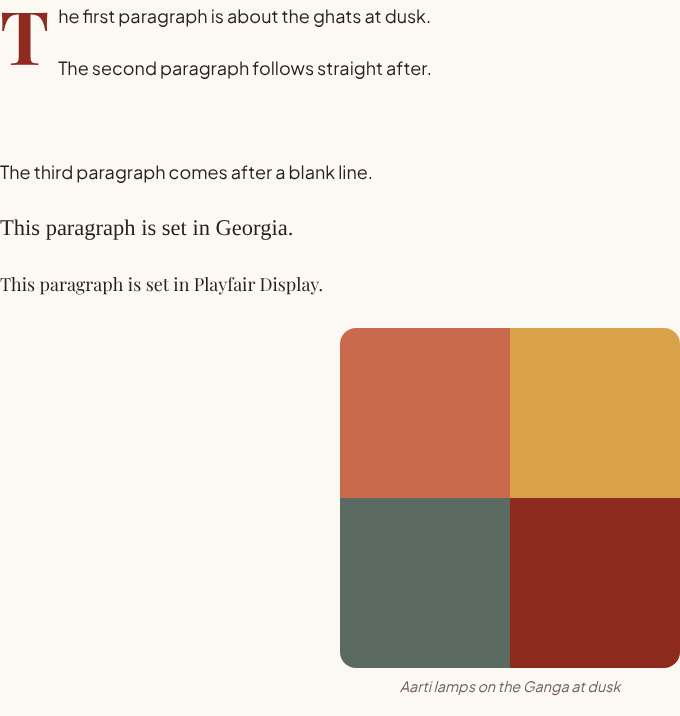
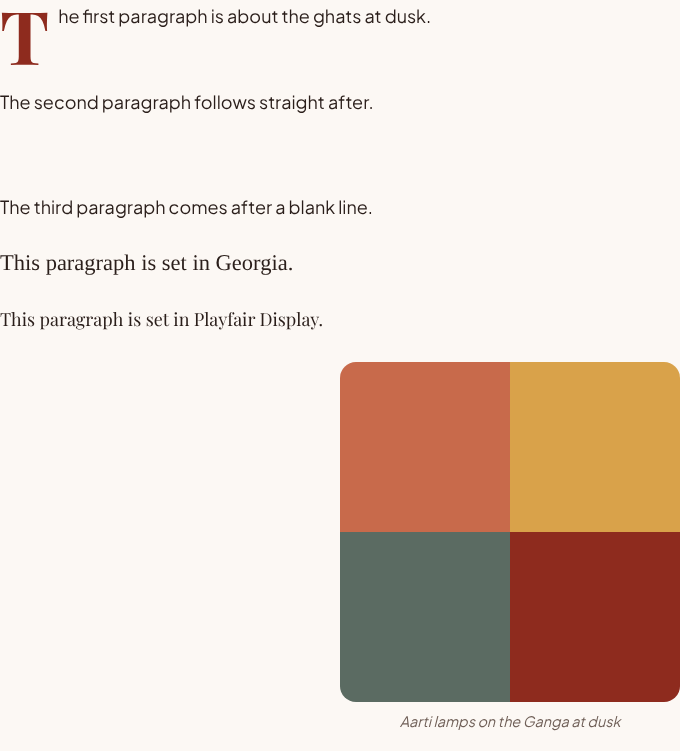
v10.1: make blog view counts visible and say why when they can't be shown
- "👁 N views" now also sits next to the reading time at the top of each story (one shared
  request with the counter at the end).
- The views API reports why a count is unavailable (tables missing = migration 0010 not run,
  no Supabase server key, post not live). Readers still see nothing broken; signed-in team
  members see the reason on the post, and the admin Blogs list shows a banner with the fix.
- Test: the not-migrated case (48/48 e2e pass).

Claude-Session: https://claude.ai/code/session_01UJXqhmX54gzJnwbGeQzue4

diff --git a/src/app/api/views/[slug]/route.ts b/src/app/api/views/[slug]/route.ts
@@ -9,46 +9,63 @@ export const dynamic = "force-dynamic";
 const SLUG = /^[a-z0-9-]{1,120}$/;
 const noStore = { "Cache-Control": "private, no-store", "X-Robots-Tag": "noindex" };
 
+type Reason = "not_set_up" | "no_server_key" | "not_found" | "error";
+type Views = { views: number; reason?: undefined } | { views: null; reason: Reason };
+
+/** PostgREST / Postgres codes for "that table or function doesn't exist" (migration 0010 not run). */
+const MISSING = new Set(["42P01", "42883", "PGRST202", "PGRST205", "PGRST200"]);
+const missing = (e: { code?: string; message?: string } | null) => Boolean(e && (MISSING.has(e.code ?? "") || /does not exist|could not find/i.test(e.message ?? "")));
+
 /** Current total for a live post, without counting (used for bots, the team and GET). */
-async function currentViews(slug: string): Promise<number | null> {
+async function currentViews(slug: string): Promise<Views> {
   const db = createPublicClient();
-  if (!db) return null;
-  const { data } = await db.from("posts").select("id, post_view_counts(views)").eq("slug", slug).maybeSingle();
-  if (!data) return null;
-  const rel = (data as { post_view_counts?: { views?: number } | { views?: number }[] | null }).post_view_counts;
-  const row = Array.isArray(rel) ? rel[0] : rel;
-  return Number(row?.views ?? 0);
+  if (!db) return { views: null, reason: "error" };
+  const { data: post } = await db.from("posts").select("id").eq("slug", slug).maybeSingle();
+  if (!post) return { views: null, reason: "not_found" };
+  const { data, error } = await db.from("post_view_counts").select("views").eq("post_id", post.id).maybeSingle();
+  if (error) {
+    console.error("[views] read failed:", error.code, error.message);
+    return { views: null, reason: missing(error) ? "not_set_up" : "error" };
+  }
+  return { views: Number(data?.views ?? 0) };
 }
 
 /** GET /api/views/{slug} → { views } (never counts). */
 export async function GET(_req: NextRequest, { params }: RouteContext<"/api/views/[slug]">) {
   const { slug } = await params;
-  if (!SLUG.test(slug)) return NextResponse.json({ views: null }, { status: 404, headers: noStore });
-  return NextResponse.json({ views: await currentViews(slug) }, { headers: noStore });
+  if (!SLUG.test(slug)) return NextResponse.json({ views: null, reason: "not_found" }, { status: 404, headers: noStore });
+  return NextResponse.json(await currentViews(slug), { headers: noStore });
 }
 
 /**
- * POST /api/views/{slug} → { views, counted }. Counts one view per visitor per 24 h (first-party
- * cookie, hashed before storage). Bots and signed-in team members are not counted.
+ * POST /api/views/{slug} → { views, counted, reason? }. Counts one view per visitor per 24 h
+ * (first-party cookie, hashed before storage). Bots and signed-in team members are not counted.
+ * When counts can't be shown, `reason` says why (shown to the team on the post page).
  */
 export async function POST(req: NextRequest, { params }: RouteContext<"/api/views/[slug]">) {
   const { slug } = await params;
-  if (!SLUG.test(slug)) return NextResponse.json({ views: null, counted: false }, { status: 404, headers: noStore });
+  if (!SLUG.test(slug)) return NextResponse.json({ views: null, counted: false, reason: "not_found" }, { status: 404, headers: noStore });
   // Only our own pages may count (blocks simple cross-site inflation).
   const site = req.headers.get("sec-fetch-site");
   if (site && site !== "same-origin") return NextResponse.json({ views: null, counted: false }, { status: 403, headers: noStore });
 
   const skip = isBot(req.headers.get("user-agent")) || req.cookies.get(ADMIN_HINT_COOKIE)?.value === "1";
   const db = createServiceClient();
-  if (skip || !db) return NextResponse.json({ views: await currentViews(slug), counted: false }, { headers: noStore });
+  if (skip) return NextResponse.json({ ...(await currentViews(slug)), counted: false }, { headers: noStore });
+  if (!db) {
+    console.error("[views] no Supabase server key (SUPABASE_SECRET_KEY / SUPABASE_SERVICE_ROLE_KEY): visits aren't recorded");
+    const cur = await currentViews(slug);
+    return NextResponse.json({ ...cur, ...(cur.views === null ? {} : { reason: "no_server_key" }), counted: false }, { headers: noStore });
+  }
 
   const visitor = visitorId(req.cookies.get(VISITOR_COOKIE)?.value);
   const { data, error } = await db.rpc("record_post_view", { p_slug: slug, p_visitor: visitorHash(visitor.id) });
   if (error) {
-    console.error("[views] record failed:", error.message);
-    return NextResponse.json({ views: await currentViews(slug), counted: false }, { headers: noStore });
+    console.error("[views] record failed:", error.code, error.message);
+    const cur = await currentViews(slug);
+    return NextResponse.json({ ...cur, ...(cur.views === null && missing(error) ? { reason: "not_set_up" } : {}), counted: false }, { headers: noStore });
   }
-  const res = NextResponse.json({ views: data === null ? null : Number(data), counted: data !== null }, { status: data === null ? 404 : 200, headers: noStore });
+  const res = NextResponse.json(data === null ? { views: null, counted: false, reason: "not_found" } : { views: Number(data), counted: true }, { status: data === null ? 404 : 200, headers: noStore });
   if (visitor.isNew) {
     res.cookies.set(VISITOR_COOKIE, visitor.id, { httpOnly: true, sameSite: "lax", secure: process.env.NODE_ENV === "production", path: "/", maxAge: VISITOR_MAX_AGE });
   }

diff --git a/src/components/blog/ViewCount.tsx b/src/components/blog/ViewCount.tsx
@@ -1,17 +1,44 @@
 "use client";
 
-import { useEffect, useRef, useState } from "react";
+import { useEffect, useRef, useSyncExternalStore } from "react";
 import { track } from "@/lib/analytics";
+import { getViewState, isTeamBrowser, loadViews, serverViewState, subscribeViews } from "@/lib/view-store";
 
 const fmt = new Intl.NumberFormat("en-IN");
+const label = (n: number) => `${fmt.format(n)} ${n === 1 ? "view" : "views"}`;
+
+const REASONS: Record<string, string> = {
+  not_set_up: "the view-count tables are missing — run supabase/migrations/0010_views_and_syndication.sql in the Supabase SQL editor (SETUP.md → Update v10).",
+  no_server_key: "the Supabase server key isn't set in Vercel (SUPABASE_SECRET_KEY or SUPABASE_SERVICE_ROLE_KEY), so visits can't be recorded.",
+  not_found: "this story isn't live yet (drafts and scheduled posts have no public count).",
+  network: "the count couldn't be loaded (network error).",
+};
+
+function useViews(slug: string, record: boolean) {
+  const state = useSyncExternalStore(subscribeViews, () => getViewState(slug), serverViewState);
+  useEffect(() => loadViews(slug, record), [slug, record]);
+  return state;
+}
+
+/** "👁 N views" next to the reading time at the top of a story (v10.1). */
+export function ViewBadge({ slug, record = true }: { slug: string; record?: boolean }) {
+  const s = useViews(slug, record);
+  if (s.status === "unavailable") return null;
+  return (
+    <span data-testid="view-badge" className="inline-flex items-center gap-1.5">
+      <span aria-hidden>👁</span>
+      {s.status === "ok" ? label(s.views) : <span aria-hidden className="inline-block h-3.5 w-14 animate-pulse rounded bg-border/70" />}
+    </span>
+  );
+}
 
 /**
- * "👁 N views" at the end of a post (v10). Live pages record the visit (the server decides
- * whether it counts: once per visitor per 24 h, never bots or the team); previews only read.
+ * "👁 N views" at the end of a story (v10). The server decides whether a visit counts: once per
+ * visitor per 24 h, never bots or the team; previews only read. If counts can't be shown,
+ * readers see nothing, and signed-in team members see what needs fixing.
  */
 export function ViewCount({ slug, record = true, title }: { slug: string; record?: boolean; title?: string }) {
-  const [views, setViews] = useState<number | null>(null);
-  const [failed, setFailed] = useState(false);
+  const s = useViews(slug, record);
   const ref = useRef<HTMLParagraphElement>(null);
   // GA4 "blog_read": the reader reached the end of the story (this line), once per page view.
   useEffect(() => {
@@ -25,34 +52,25 @@ export function ViewCount({ slug, record = true, title }: { slug: string; record
     });
     io.observe(el);
     return () => io.disconnect();
-  }, [slug, title, record, failed]);
-  useEffect(() => {
-    let live = true;
-    fetch(`/api/views/${encodeURIComponent(slug)}`, { method: record ? "POST" : "GET", credentials: "same-origin", cache: "no-store" })
-      .then((r) => r.json() as Promise<{ views: number | null }>)
-      .then((j) => {
-        if (!live) return;
-        if (typeof j.views === "number") setViews(j.views);
-        else setFailed(true);
-      })
-      .catch(() => live && setFailed(true));
-    return () => {
-      live = false;
-    };
-  }, [slug, record]);
-  // Counts unavailable (e.g. database not migrated yet): show nothing rather than a spinner.
-  if (failed) return <p ref={ref} aria-hidden className="h-px" />;
+  }, [slug, title, record]);
+
+  if (s.status === "unavailable") {
+    const team = isTeamBrowser();
+    return (
+      <p ref={ref} data-testid="view-count-help" role={team ? "note" : undefined} aria-hidden={team ? undefined : true} className={team ? "mt-10 rounded-lg bg-primary-soft px-3 py-2 text-sm text-primary" : "h-px"}>
+        {team ? <>Only the team sees this: view counts are hidden because {REASONS[s.reason ?? ""] ?? "the server couldn't return a count."}</> : null}
+      </p>
+    );
+  }
   return (
     <p ref={ref} data-testid="view-count" aria-live="polite" className="mt-10 flex items-center gap-2 text-sm text-muted">
-      {views === null ? (
-        <span aria-hidden className="inline-block h-4 w-24 animate-pulse rounded bg-border/70" />
-      ) : (
+      {s.status === "ok" ? (
         <>
           <span aria-hidden>👁</span>
-          <span>
-            {fmt.format(views)} {views === 1 ? "view" : "views"}
-          </span>
+          <span>{label(s.views)}</span>
         </>
+      ) : (
+        <span aria-hidden className="inline-block h-4 w-24 animate-pulse rounded bg-border/70" />
       )}
     </p>
   );

diff --git a/tests/blog-v10.spec.ts b/tests/blog-v10.spec.ts
@@ -4,7 +4,10 @@
  */
 import { mkdirSync } from "node:fs";
 import { expect, test, type Browser, type BrowserContext, type Page } from "@playwright/test";
+import pg from "pg";
 import sharp from "sharp";
+
+const { Client } = pg;
 
 const ADMIN = { email: "team@kanpurkikahaani.site", password: "Correct-Horse-Battery-9" };
 // A normal desktop browser (Playwright's default "HeadlessChrome" is — correctly — treated as a bot).
@@ -244,6 +247,7 @@ test.describe("v10 view counts", () => {
     const a = await visitor(browser);
     await a.page.goto(`/blogs/${slug}`);
     await expect(countText(a.page)).toHaveText(label(base + 1));
+    await expect(a.page.getByTestId("view-badge")).toHaveText(label(base + 1)); // also next to the reading time
     await a.page.reload();
     await expect(countText(a.page)).toHaveText(label(base + 1)); // refresh doesn't double-count
     await a.page.goto(`/blogs/${slug}`);
@@ -278,6 +282,31 @@ test.describe("v10 view counts", () => {
     const cross = await a.page.request.post(`/api/views/${slug}`, { headers: { "sec-fetch-site": "cross-site" } });
     expect(cross.status()).toBe(403);
     for (const x of [a, b, bot, team, c]) await x.ctx.close();
+  });
+});
+
+test.describe("v10.1 view counts when the database isn't migrated", () => {
+  test("readers see no broken counter; the team is told what to fix", async ({ browser }) => {
+    const pg = new Client({ host: process.env.PGHOST ?? "/var/lib/postgresql/kkk", port: Number(process.env.PGPORT ?? 54329), user: process.env.PGUSER ?? "postgres", database: process.env.PGDATABASE ?? "kkk_e2e" });
+    await pg.connect();
+    await pg.query("alter table public.post_view_counts rename to post_view_counts_off");
+    try {
+      const reader = await visitor(browser);
+      await reader.page.goto(`/blogs/${slug}`);
+      await expect(reader.page.getByTestId("view-count-help")).toBeAttached();
+      await expect(reader.page.getByTestId("view-count-help")).toHaveText("");
+      await expect(reader.page.getByTestId("view-badge")).toHaveCount(0);
+      const team = await visitor(browser);
+      await signIn(team.page);
+      await team.page.goto(`/blogs/${slug}`);
+      await expect(team.page.getByTestId("view-count-help")).toContainText("0010_views_and_syndication.sql");
+      await team.page.goto("/admin/blogs");
+      await expect(team.page.getByTestId("views-problem")).toContainText("0010_views_and_syndication.sql");
+      for (const x of [reader, team]) await x.ctx.close();
+    } finally {
+      await pg.query("alter table public.post_view_counts_off rename to post_view_counts");
+      await pg.end();
+    }
   });
 });
 

diff --git a/src/app/admin/(panel)/blogs/page.tsx b/src/app/admin/(panel)/blogs/page.tsx
@@ -4,6 +4,7 @@ import { PostRowActions } from "@/components/admin/PostRowActions";
 import type { LinkReport } from "@/lib/link-check";
 import { hrefsIn } from "@/lib/link-check";
 import { displayStatus } from "@/lib/admin/post-status";
+import { supabaseServiceKey } from "@/lib/supabase/config";
 import { createSessionClient } from "@/lib/supabase/server";
 import { cn } from "@/lib/utils";
 
@@ -44,7 +45,12 @@ export default async function AdminBlogsPage({ searchParams }: PageProps<"/admin
   const { data, error } = await query;
   const { count: trashCount } = await db!.from("posts").select("id", { count: "exact", head: true }).not("deleted_at", "is", null);
   // Public view counts (migration 0010). A separate query, so the list still loads without it.
-  const { data: viewRows } = await db!.from("post_view_counts").select("post_id, views");
+  const { data: viewRows, error: viewsError } = await db!.from("post_view_counts").select("post_id, views");
+  const viewsProblem = viewsError
+    ? "View counts are off: the view-count tables are missing. Run supabase/migrations/0010_views_and_syndication.sql in the Supabase SQL editor (SETUP.md → Update v10), then reload."
+    : !supabaseServiceKey()
+      ? "View counts aren't being recorded: add the Supabase server key (SUPABASE_SECRET_KEY or SUPABASE_SERVICE_ROLE_KEY) in Vercel and redeploy."
+      : null;
   const views = new Map((viewRows ?? []).map((v) => [v.post_id as string, Number(v.views)]));
 
   const rows = (data ?? [])
@@ -82,6 +88,7 @@ export default async function AdminBlogsPage({ searchParams }: PageProps<"/admin
         </div>
       </div>
       {notice && <p role="status" className="mt-4 rounded-xl bg-[#e3f1e6] px-4 py-3 text-sm text-[#21603a]">{notice}</p>}
+      {viewsProblem && <p role="alert" data-testid="views-problem" className="mt-4 rounded-xl bg-primary-soft px-4 py-3 text-sm text-primary">{viewsProblem}</p>}
 
       <form role="search" className="mt-6 flex flex-wrap items-end gap-3" action="/admin/blogs">
         {trash && <input type="hidden" name="view" value="trash" />}

diff --git a/src/lib/view-store.ts b/src/lib/view-store.ts
@@ -1,0 +1,40 @@
+"use client";
+
+/**
+ * One view-count request per post per page load, shared by the header badge and the counter at
+ * the end of the story (v10.1). Live pages POST (the server decides whether the visit counts);
+ * previews only GET.
+ */
+export type ViewState =
+  | { status: "loading" }
+  | { status: "ok"; views: number }
+  | { status: "unavailable"; reason: string | null };
+
+const states = new Map<string, ViewState>();
+const started = new Set<string>();
+const listeners = new Set<() => void>();
+const LOADING: ViewState = { status: "loading" };
+
+const set = (slug: string, s: ViewState) => {
+  states.set(slug, s);
+  listeners.forEach((l) => l());
+};
+
+export const getViewState = (slug: string) => states.get(slug) ?? LOADING;
+export const serverViewState = (): ViewState => LOADING;
+export function subscribeViews(l: () => void) {
+  listeners.add(l);
+  return () => listeners.delete(l);
+}
+
+export function loadViews(slug: string, record: boolean) {
+  if (started.has(slug)) return;
+  started.add(slug);
+  fetch(`/api/views/${encodeURIComponent(slug)}`, { method: record ? "POST" : "GET", credentials: "same-origin", cache: "no-store" })
+    .then((r) => r.json() as Promise<{ views: number | null; reason?: string }>)
+    .then((j) => set(slug, typeof j.views === "number" ? { status: "ok", views: j.views } : { status: "unavailable", reason: j.reason ?? null }))
+    .catch(() => set(slug, { status: "unavailable", reason: "network" }));
+}
+
+/** Signed-in team members carry this (non-secret) hint cookie; used only to show set-up help. */
+export const isTeamBrowser = () => typeof document !== "undefined" && document.cookie.split("; ").includes("kkk_admin_hint=1");

diff --git a/src/components/blog/ArticleView.tsx b/src/components/blog/ArticleView.tsx
@@ -8,7 +8,7 @@ import { ImageWithFallback } from "@/components/ui/ImageWithFallback";
 import { indexedPhoto } from "@/lib/photo-index";
 import { PhotoCreditLine } from "@/components/ui/PhotoCredit";
 import { JsonLd } from "@/components/seo/JsonLd";
-import { ViewCount } from "./ViewCount";
+import { ViewBadge, ViewCount } from "./ViewCount";
 import { ReadingProgress } from "@/components/blog/ReadingProgress";
 import { ArticleToc, MobileToc } from "@/components/blog/ArticleToc";
 import {
@@ -132,6 +132,7 @@ export function ArticleView({
             <span className="inline-flex items-center gap-1.5">
               <Clock size={14} aria-hidden className="text-accent" /> {post.readingMinutes} min read
             </span>
+            <ViewBadge slug={post.slug} record={!preview} />
           </div>
           <ShareButtons className="mt-5 flex-wrap justify-center" url={url} title={post.title} context={`blog_${post.slug}`} />
         </header>
